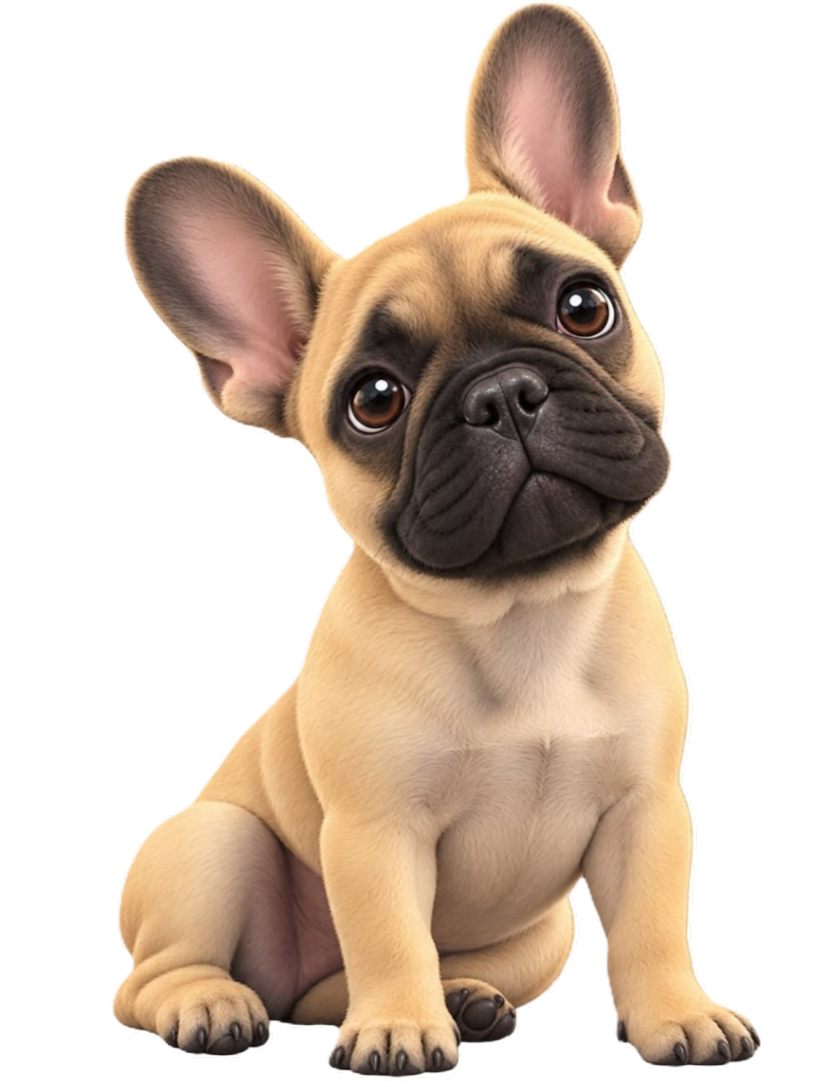
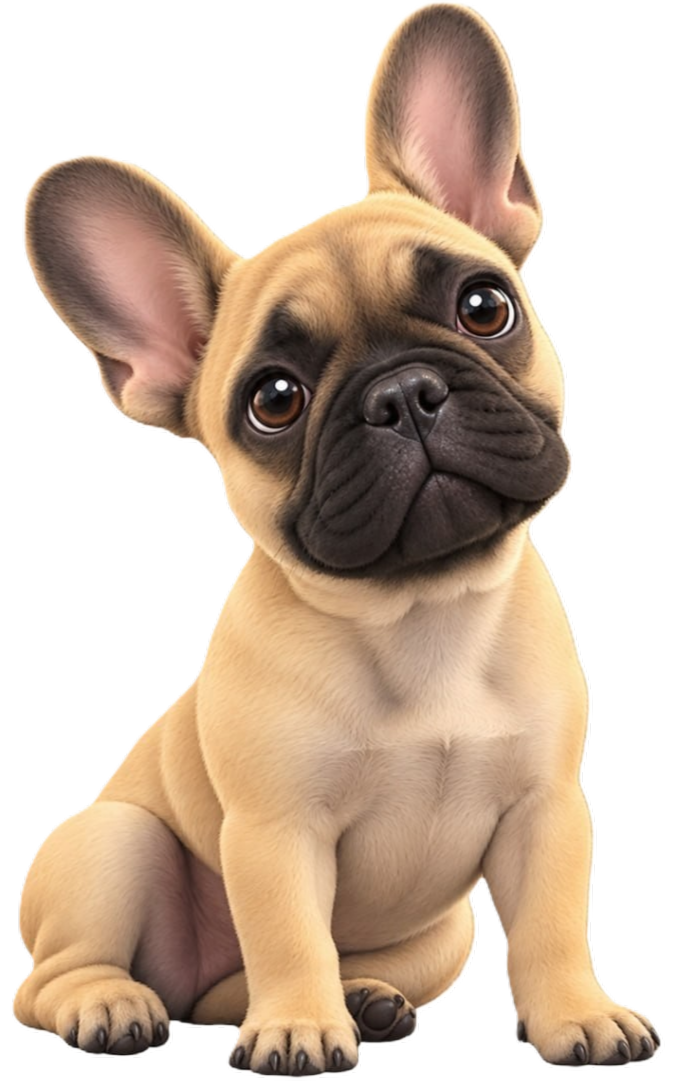
Add wordmark lockup and rebalance the landing page heroes
Header now shows the badge plus "coolstuffwithcoco", set as one lowercase
word to match the handle and the domain — how people actually search for
her. Extracted to BrandLockup rather than repeating the markup in six
places, and used in every page header plus the footer.

The badge image is now DECORATIVE (empty alt) because the wordmark beside
it carries the name. Marking both up as content made a screen reader
announce the brand twice, and it also permanently removes the
label-content-name-mismatch problem the wrapping link had.

Landing page heroes were badly unbalanced: the h1 was still on
t-display-xl (144px at desktop) while only the home hero had been fixed,
so the headline ran to five lines and Coco was a thumbnail beside it. h1
drops to t-hero, the subhook to t-hero-echo so it supports rather than
competes, Coco grows, and the vertical rhythm tightens. Both pages.

Fixed a real aspect-ratio bug found while measuring: cocoHero was
declared 1024x1280 against an 815x1087 file, so the browser reserved a
0.80 box from the attributes and reflowed to the actual 0.75 on load.
That was the source of the home page's residual 0.004 CLS — now 0 on all
three pages.

Also cropped the hero render from 815 to 675 wide. It carried ~166px of
empty transparent margin (113 left, 53 right), so a fifth of the layout
width was blank and Coco read smaller than her box. Full height kept —
content starts at y=3, so there was nothing to trim vertically. She now
[…]

diff --git a/src/app/vetbill/page.tsx b/src/app/vetbill/page.tsx
@@ -1,5 +1,6 @@
 import type { Metadata } from "next";
 import { BrandImage } from "@/components/brand/BrandImage";
+import { BrandLockup } from "@/components/brand/BrandLockup";
 import { Cross, Heart } from "@/components/brand/Icons";
 import { CallNowTable } from "@/components/vetbill/CallNowTable";
 import { GhlFormEmbed } from "@/components/shared/GhlFormEmbed";
@@ -40,18 +41,18 @@ export default function VetBillPage() {
         {/* ---- Hero: reassuring, not scary ---- */}
         <section className="relative overflow-hidden bg-paper">
           <div className="shell py-6">
-            <BrandImage slot="logoBadge" className="h-14 w-14 sm:h-16 sm:w-16" sizes="64px" />
+            <BrandLockup />
           </div>
 
-          <div className="shell grid items-center gap-10 pb-16 lg:grid-cols-[1.05fr_0.95fr] lg:pb-24">
+          <div className="shell grid items-center gap-6 pb-10 lg:grid-cols-[1fr_1.05fr] lg:gap-10 lg:pb-16">
             <div>
-              <h1 className="t-display-xl max-w-[16ch] text-ink">{VETBILL.hook}</h1>
-              <p className="t-display-l mt-4 max-w-[18ch] text-ink/80">
+              <h1 className="t-hero max-w-[20ch] text-ink">{VETBILL.hook}</h1>
+              <p className="t-hero-echo mt-3 max-w-[20ch] text-ink/80">
                 {VETBILL.subhook}
               </p>
-              <p className="t-lead mt-6 text-ink/75">{VETBILL.promise}</p>
+              <p className="t-lead mt-5 text-ink/75">{VETBILL.promise}</p>
 
-              <div className="mt-8 flex flex-wrap gap-3">
+              <div className="mt-7 flex flex-wrap gap-3">
                 <a href="#get" className="btn-coral">
                   Get the free guide
                 </a>
@@ -61,12 +62,12 @@ export default function VetBillPage() {
               </div>
             </div>
 
-            <div className="mx-auto w-[min(72vw,26rem)]">
+            <div className="mx-auto w-[min(88vw,32rem)]">
               <BrandImage
                 slot="cocoHero"
                 priority
-                sizes="(max-width: 1024px) 72vw, 32vw"
-                className="w-full rounded-4xl"
+                sizes="(max-width: 1024px) 88vw, 42vw"
+                className="w-full"
               />
             </div>
           </div>

diff --git a/src/app/decode/page.tsx b/src/app/decode/page.tsx
@@ -1,5 +1,6 @@
 import type { Metadata } from "next";
 import { BrandImage } from "@/components/brand/BrandImage";
+import { BrandLockup } from "@/components/brand/BrandLockup";
 import { Paw } from "@/components/brand/Icons";
 import { GuessTheSignal } from "@/components/decode/GuessTheSignal";
 import { GhlFormEmbed } from "@/components/shared/GhlFormEmbed";
@@ -38,18 +39,18 @@ export default function DecodePage() {
         <section className="relative overflow-hidden bg-paper">
           {/* Non-clickable logo — no route out of here */}
           <div className="shell py-6">
-            <BrandImage slot="logoBadge" className="h-14 w-14 sm:h-16 sm:w-16" sizes="64px" />
+            <BrandLockup />
           </div>
 
-          <div className="shell grid items-center gap-10 pb-16 lg:grid-cols-[1.05fr_0.95fr] lg:pb-24">
+          <div className="shell grid items-center gap-6 pb-10 lg:grid-cols-[1fr_1.05fr] lg:gap-10 lg:pb-16">
             <div>
-              <h1 className="t-display-xl max-w-[18ch] text-ink">{DECODE.hook}</h1>
-              <p className="t-display-l mt-4 max-w-[16ch] text-ink/80">
+              <h1 className="t-hero max-w-[20ch] text-ink">{DECODE.hook}</h1>
+              <p className="t-hero-echo mt-3 max-w-[20ch] text-ink/80">
                 {DECODE.subhook}
               </p>
-              <p className="t-lead mt-6 text-ink/75">{DECODE.promise}</p>
+              <p className="t-lead mt-5 text-ink/75">{DECODE.promise}</p>
 
-              <div className="mt-8 flex flex-wrap gap-3">
+              <div className="mt-7 flex flex-wrap gap-3">
                 <a href="#get" className="btn-coral">
                   Get the free guide
                 </a>
@@ -59,12 +60,12 @@ export default function DecodePage() {
               </div>
             </div>
 
-            <div className="mx-auto w-[min(72vw,26rem)]">
+            <div className="mx-auto w-[min(88vw,32rem)]">
               <BrandImage
                 slot="cocoHero"
                 priority
-                sizes="(max-width: 1024px) 72vw, 32vw"
-                className="w-full rounded-4xl"
+                sizes="(max-width: 1024px) 88vw, 42vw"
+                className="w-full"
               />
             </div>
           </div>

diff --git a/src/components/brand/BrandLockup.tsx b/src/components/brand/BrandLockup.tsx
@@ -1,0 +1,59 @@
+import Link from "next/link";
+import { BrandImage } from "@/components/brand/BrandImage";
+
+type Props = {
+  /**
+   * Wrap in a link home. Off for the paid landing pages, where nothing may
+   * compete with the form.
+   */
+  href?: "/" | false;
+  /** Renders light, for the ink footer. */
+  onInk?: boolean;
+  className?: string;
+};
+
+/**
+ * Badge + wordmark, used in every page header and the footer.
+ *
+ * The badge image is DECORATIVE (empty alt) because the wordmark beside it
+ * already carries the name. Marking both up as content made a screen reader
+ * announce "Cool Stuff with Coco" twice, and an aria-label on the wrapping
+ * link that didn't match the visible text tripped axe's
+ * label-content-name-mismatch rule.
+ *
+ * The wordmark is set as one lowercase word to match the Instagram handle and
+ * the domain, which is how people actually search for her.
+ */
+export function BrandLockup({ href = false, onInk = false, className }: Props) {
+  const inner = (
+    <>
+      <BrandImage
+        slot="logoBadge"
+        decorative
+        className="h-11 w-11 shrink-0 sm:h-14 sm:w-14"
+        sizes="56px"
+      />
+      <span
+        className={[
+          "font-display text-[0.9375rem] font-bold leading-none tracking-[-0.02em] sm:text-lg",
+          onInk ? "text-paper" : "text-ink",
+        ].join(" ")}
+      >
+        coolstuffwithcoco
+      </span>
+    </>
+  );
+
+  const shell = `flex items-center gap-2.5 ${className ?? ""}`;
+
+  if (href) {
+    return (
+      <Link href={href} className={shell}>
+        {inner}
+      </Link>
+    );
+  }
+
+  // Paid landing pages: present but not a route out.
+  return <div className={shell}>{inner}</div>;
+}

diff --git a/src/components/brand/BrandImage.tsx b/src/components/brand/BrandImage.tsx
@@ -10,6 +10,12 @@ type Props = {
   priority?: boolean;
   /** Override alt when context makes the manifest default wrong. */
   alt?: string;
+  /**
+   * Purely decorative — renders with an empty alt and is skipped by screen
+   * readers. Use when adjacent text already carries the meaning, e.g. the
+   * logo badge next to the wordmark.
+   */
+  decorative?: boolean;
 };
 
 /**
@@ -19,7 +25,14 @@ type Props = {
  * The placeholder reserves the exact same space as the real image, so swapping
  * an asset in never shifts layout.
  */
-export function BrandImage({ slot, className, sizes, priority, alt }: Props) {
+export function BrandImage({
+  slot,
+  className,
+  sizes,
+  priority,
+  alt,
+  decorative,
+}: Props) {
   const asset = BRAND[slot];
 
   if (!asset.ready) {
@@ -27,8 +40,9 @@ export function BrandImage({ slot, className, sizes, priority, alt }: Props) {
       <div
         className={`ph ${className ?? ""}`}
         style={{ aspectRatio: `${asset.w} / ${asset.h}` }}
-        role="img"
-        aria-label={`Placeholder for: ${asset.alt}`}
+        {...(decorative
+          ? { "aria-hidden": true }
+          : { role: "img", "aria-label": `Placeholder for: ${asset.alt}` })}
       >
         <span>
           <strong className="block font-semibold">Placeholder</strong>
@@ -44,7 +58,7 @@ export function BrandImage({ slot, className, sizes, priority, alt }: Props) {
   return (
     <Image
       src={brandSrc(slot)}
-      alt={alt ?? asset.alt}
+      alt={decorative ? "" : (alt ?? asset.alt)}
       width={asset.w}
       height={asset.h}
       sizes={sizes}

diff --git a/src/components/home/Hero.tsx b/src/components/home/Hero.tsx
@@ -4,6 +4,7 @@ import { useRef } from "react";
 import Link from "next/link";
 import { motion, useScroll, useTransform, useReducedMotion } from "motion/react";
 import { BrandImage } from "@/components/brand/BrandImage";
+import { BrandLockup } from "@/components/brand/BrandLockup";
 import { Ball, Bone, Paw } from "@/components/brand/Icons";
 import { useIsNarrow } from "@/lib/useIsNarrow";
 
@@ -107,15 +108,7 @@ export function Hero() {
 
       {/* ---- Top bar ---- */}
       <div className="rise rise-1 shell relative z-20 flex items-center justify-between py-6">
-        {/*
-          No aria-label here on purpose: the logo image's alt already names the
-          link, and an aria-label that doesn't contain the visible text trips
-          axe's label-content-name-mismatch rule (the placeholder box renders
-          visible descriptive text while assets are pending).
-        */}
-        <Link href="/" className="flex items-center gap-2">
-          <BrandImage slot="logoBadge" className="h-14 w-14 sm:h-16 sm:w-16" sizes="64px" />
-        </Link>
+        <BrandLockup href="/" />
         <Link href="#guides" className="btn-coral btn-coral-sm">
           Free guides
         </Link>

diff --git a/src/lib/brand/manifest.ts b/src/lib/brand/manifest.ts
@@ -53,8 +53,17 @@ export const BRAND = {
   /* ---- Coco ------------------------------------------------------------- */
   cocoHero: {
     file: "coco-hero.png",
-    w: 1024,
-    h: 1280,
+    // MUST match the file exactly. This was once declared 1024x1280 against an
+    // 815x1087 file, so the browser reserved a 0.80 box from these attributes
+    // and reflowed to the real 0.75 on load. If the crop changes, re-probe and
+    // update BOTH numbers.
+    //
+    // Cropped from 815 to 675 wide: the render carried ~166px of empty
+    // transparent margin (113 left, 53 right), so a fifth of the layout width
+    // was blank and Coco read smaller than her box. Full height kept — content
+    // starts at y=3, so there was nothing to trim vertically.
+    w: 675,
+    h: 1087,
     alt: "Coco, a fawn French Bulldog, sitting and looking at the camera",
     note: "HERO — illustrated render, seated, head tilted. This is the LCP image.",
     ready: true,

diff --git a/src/components/layout/Footer.tsx b/src/components/layout/Footer.tsx
@@ -1,5 +1,5 @@
 import Link from "next/link";
-import { BrandImage } from "@/components/brand/BrandImage";
+import { BrandLockup } from "@/components/brand/BrandLockup";
 import { Paw } from "@/components/brand/Icons";
 import {
   DISCLAIMER,
@@ -62,11 +62,7 @@ export function Footer({ bare = false }: { bare?: boolean }) {
         {/* Columns */}
         <div className="mt-12 grid gap-10 border-t border-paper/20 pt-10 sm:grid-cols-2 lg:grid-cols-4">
           <div>
-            <BrandImage
-              slot="logoBadge"
-              className="mb-4 h-20 w-20"
-              sizes="80px"
-            />
+            <BrandLockup onInk className="mb-4" />
             <p className="t-small opacity-75">
               Dog stuff, from Coco and the person who feeds her.
             </p>

diff --git a/src/app/decode/thank-you/page.tsx b/src/app/decode/thank-you/page.tsx
@@ -1,5 +1,6 @@
 import type { Metadata } from "next";
 import { BrandImage } from "@/components/brand/BrandImage";
+import { BrandLockup } from "@/components/brand/BrandLockup";
 import { OfferScaffold } from "@/components/shared/OfferScaffold";
 import { Footer } from "@/components/layout/Footer";
 import { DECODE } from "@/lib/content/guides";
@@ -27,7 +28,7 @@ export default function DecodeThankYou() {
       <main id="main">
         <section className="bg-bubblegum">
           <div className="shell py-6">
-            <BrandImage slot="logoBadge" className="h-14 w-14 sm:h-16 sm:w-16" sizes="64px" />
+            <BrandLockup />
           </div>
 
           <div className="shell grid items-center gap-10 pb-20 lg:grid-cols-[1.1fr_0.9fr]">

diff --git a/src/app/vetbill/thank-you/page.tsx b/src/app/vetbill/thank-you/page.tsx
@@ -1,5 +1,6 @@
 import type { Metadata } from "next";
 import { BrandImage } from "@/components/brand/BrandImage";
+import { BrandLockup } from "@/components/brand/BrandLockup";
 import { OfferScaffold } from "@/components/shared/OfferScaffold";
 import { Footer } from "@/components/layout/Footer";
 import { VETBILL } from "@/lib/content/guides";
@@ -22,7 +23,7 @@ export default function VetBillThankYou() {
       <main id="main">
         <section className="bg-sky">
           <div className="shell py-6">
-            <BrandImage slot="logoBadge" className="h-14 w-14 sm:h-16 sm:w-16" sizes="64px" />
+            <BrandLockup />
           </div>
 
           <div className="shell grid items-center gap-10 pb-20 lg:grid-cols-[1.1fr_0.9fr]">

diff --git a/src/components/layout/LegalPage.tsx b/src/components/layout/LegalPage.tsx
@@ -1,5 +1,4 @@
-import Link from "next/link";
-import { BrandImage } from "@/components/brand/BrandImage";
+import { BrandLockup } from "@/components/brand/BrandLockup";
 import { Footer } from "@/components/layout/Footer";
 
 /**
@@ -27,10 +26,7 @@ export function LegalPage({
     <>
       <main id="main" className="bg-paper">
         <div className="shell py-6">
-          {/* No aria-label — see the note in Hero.tsx */}
-          <Link href="/">
-            <BrandImage slot="logoBadge" className="h-14 w-14 sm:h-16 sm:w-16" sizes="64px" />
-          </Link>
+          <BrandLockup href="/" />
         </div>
 
         <div className="shell pb-24 pt-8">
